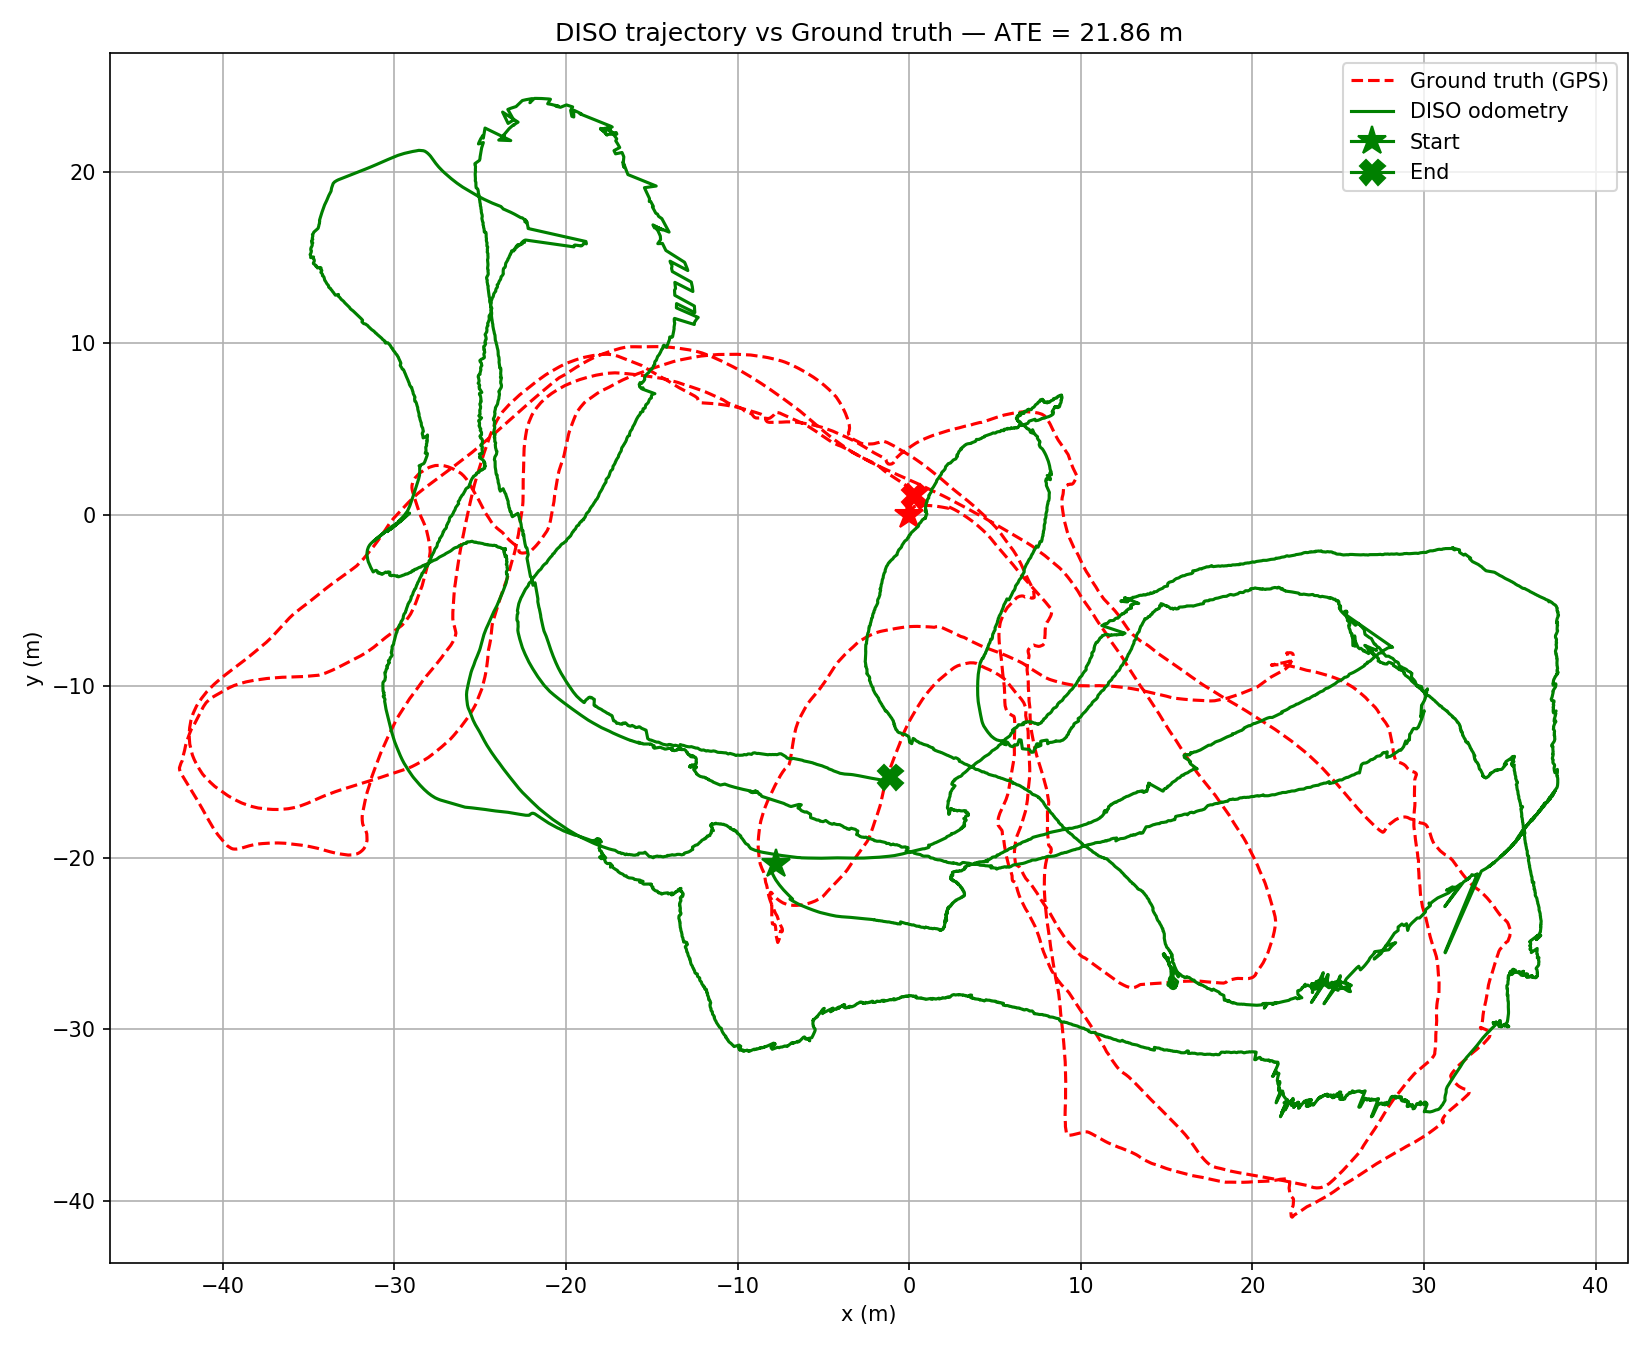
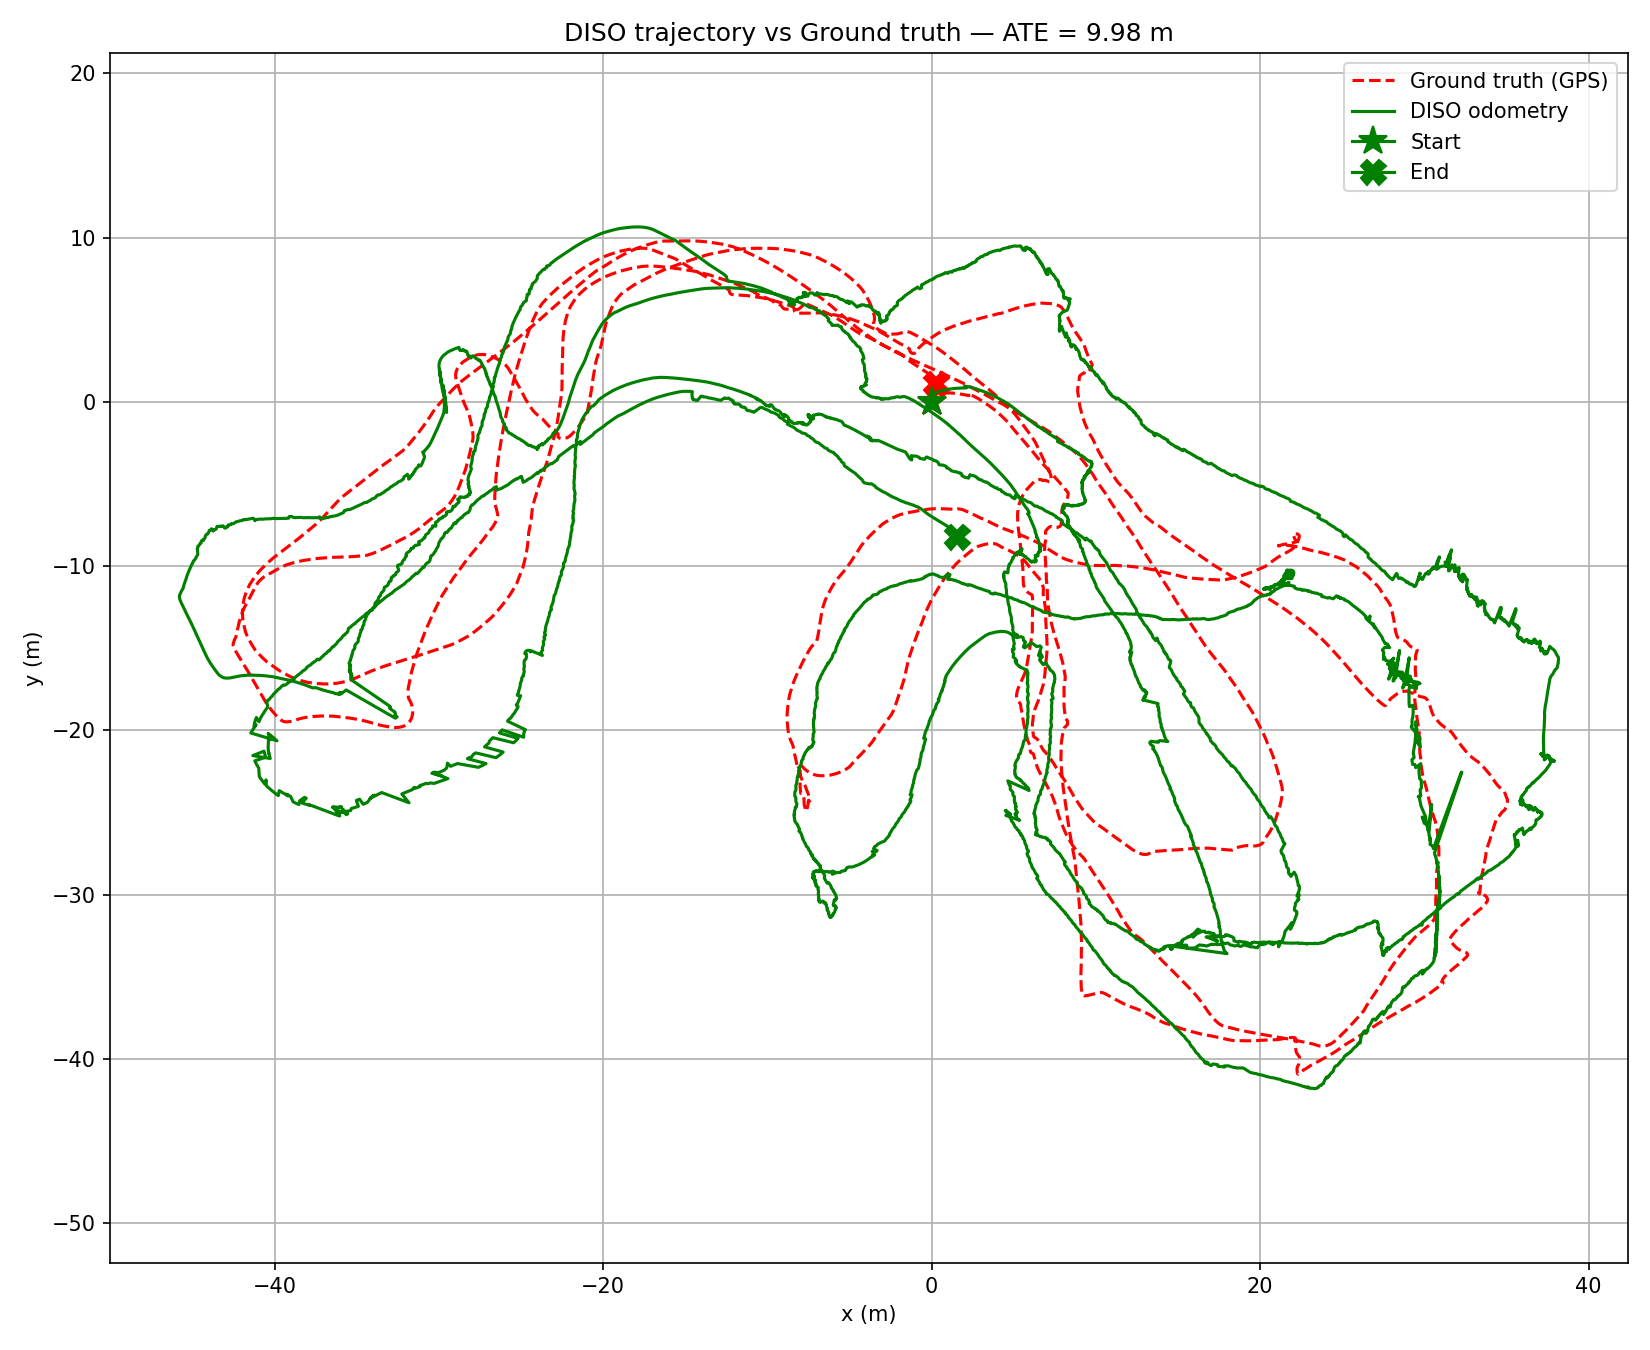
graphique cohérent + push python pour avoir le nuage de point

diff --git a/analyze_diso.py b/analyze_diso.py
@@ -1,7 +1,9 @@
 #!/usr/bin/env python3
 """
-Plot DISO trajectory vs ground truth.
-Aligns by proportional index resampling then Umeyama SE2 (no scale).
+Generate 3 plots from DISO results:
+  1. Trajectories: GT + pure odom + DISO
+  2. Point cloud map
+  3. Point cloud + trajectories overlay
 """
 import pandas as pd
 import numpy as np
@@ -11,61 +13,102 @@ import os
 results_dir = os.environ.get("SLAM_RESULTS_DIR",
     os.path.join(os.path.dirname(os.path.abspath(__file__)), "results"))
 
-traj_path = os.path.join(results_dir, "diso_trajectory.csv")
-gt_path   = os.path.join(results_dir, "groundtruth.csv")
+def load(name):
+    path = os.path.join(results_dir, name)
+    if not os.path.exists(path):
+        print(f"WARNING: {path} not found")
+        return None
+    return pd.read_csv(path)
 
-if not os.path.exists(traj_path):
-    print(f"ERROR: {traj_path} not found")
+traj  = load("diso_trajectory.csv")
+odom  = load("diso_odom.csv")
+gt    = load("groundtruth.csv")
+cloud = load("diso_pointcloud.csv")
+
+if traj is None:
+    print("ERROR: diso_trajectory.csv missing — run DISO and CTRL+C first")
     exit(1)
 
-traj = pd.read_csv(traj_path)
-gt   = pd.read_csv(gt_path)
+# ── Alignment: flip Y then rotate by centroid angle ──────────────────────────
+def align_to_gt(x, y, gx, gy):
+    """Flip Y then rotate so DISO centroid matches GT centroid direction."""
+    y = -y
+    diso_angle = np.arctan2(y.mean(), x.mean())
+    gt_angle   = np.arctan2(gy.mean(), gx.mean())
+    theta = gt_angle - diso_angle
+    c, s = np.cos(theta), np.sin(theta)
+    R = np.array([[c, -s], [s, c]])
+    aligned = (R @ np.stack([x, y])).T
+    return aligned[:, 0], aligned[:, 1], R
 
 tx, ty = traj["x"].to_numpy(), traj["y"].to_numpy()
 gx, gy = gt["x"].to_numpy(),   gt["y"].to_numpy()
 
-# Resample DISO to same number of points as GT (proportional index)
-idx = np.round(np.linspace(0, len(tx)-1, len(gx))).astype(int)
-tx_r, ty_r = tx[idx], ty[idx]
+tx_a, ty_a, R = align_to_gt(tx, ty, gx, gy)
 
-# Umeyama SE2: find R, t mapping DISO → GT (no scale)
-p = np.stack([tx_r, ty_r], axis=1)
-q = np.stack([gx,   gy  ], axis=1)
-mu_p, mu_q = p.mean(0), q.mean(0)
-H = (p - mu_p).T @ (q - mu_q)
-U, _, Vt = np.linalg.svd(H)
-R = Vt.T @ U.T
-# Force proper rotation (no reflection)
-if np.linalg.det(R) < 0:
-    Vt[1, :] *= -1
-    R = Vt.T @ U.T
-t_vec = mu_q - R @ mu_p
+# ATE
+idx = np.round(np.linspace(0, len(gx)-1, len(tx_a))).astype(int)
+ate = np.sqrt(np.mean((tx_a - gx[idx])**2 + (ty_a - gy[idx])**2))
 
-# Apply to full DISO trajectory
-aligned = (R @ np.stack([tx, ty])).T + t_vec
-tx_a, ty_a = aligned[:, 0], aligned[:, 1]
+# ── Figure 1: Trajectories ────────────────────────────────────────────────────
+fig1, ax1 = plt.subplots(figsize=(11, 9))
+ax1.plot(gx, gy, label="Ground truth (GPS)", color="red", linestyle="--", linewidth=1.5)
+ax1.plot(gx[0], gy[0], marker="*", color="red", markersize=14)
+ax1.plot(gx[-1], gy[-1], marker="X", color="red", markersize=12)
 
-# ATE on resampled points
-tx_a_r = (R @ np.stack([tx_r, ty_r])).T + t_vec
-ate = np.sqrt(np.mean((tx_a_r[:,0] - gx)**2 + (tx_a_r[:,1] - gy)**2))
+if odom is not None:
+    ox, oy = odom["x"].to_numpy(), odom["y"].to_numpy()
+    ox_a, oy_a, _ = align_to_gt(ox, oy, gx, gy)
+    ax1.plot(ox_a, oy_a, label="Pure odometry (dead reckoning)", color="steelblue",
+             linestyle=":", linewidth=1.2)
+    ax1.plot(ox_a[0], oy_a[0], marker="*", color="steelblue", markersize=12)
+    ax1.plot(ox_a[-1], oy_a[-1], marker="X", color="steelblue", markersize=10)
 
-fig, ax = plt.subplots(figsize=(11, 9))
-ax.plot(gx,   gy,   label="Ground truth (GPS)", color="red",   linestyle="--", linewidth=1.5)
-ax.plot(gx[0], gy[0], marker="*", color="red",   markersize=14)
-ax.plot(gx[-1],gy[-1],marker="X", color="red",   markersize=12)
-ax.plot(tx_a, ty_a, label="DISO odometry",      color="green", linewidth=1.5)
-ax.plot(tx_a[0],  ty_a[0],  marker="*", color="green", markersize=14, label="Start")
-ax.plot(tx_a[-1], ty_a[-1], marker="X", color="green", markersize=12, label="End")
+ax1.plot(tx_a, ty_a, label=f"DISO odometry (ATE={ate:.1f} m)", color="green", linewidth=1.5)
+ax1.plot(tx_a[0],  ty_a[0],  marker="*", color="green", markersize=14, label="Start")
+ax1.plot(tx_a[-1], ty_a[-1], marker="X", color="green", markersize=12, label="End")
 
-ax.set_title(f"DISO trajectory vs Ground truth — ATE = {ate:.2f} m")
-ax.set_xlabel("x (m)")
-ax.set_ylabel("y (m)")
-ax.legend()
-ax.axis("equal")
-ax.grid(True)
+ax1.set_title("Trajectories: DISO vs Ground truth vs Odometry")
+ax1.set_xlabel("x (m)"); ax1.set_ylabel("y (m)")
+ax1.legend(); ax1.axis("equal"); ax1.grid(True)
 plt.tight_layout()
+out1 = os.path.join(results_dir, "plot1_trajectories.png")
+fig1.savefig(out1, dpi=150)
+print(f"Saved: {out1}")
 
-out = os.path.join(results_dir, "diso_trajectory_plot.png")
-plt.savefig(out, dpi=150)
+# ── Figure 2: Point cloud ─────────────────────────────────────────────────────
+if cloud is not None:
+    cx, cy = cloud["x"].to_numpy(), cloud["y"].to_numpy()
+    # Apply same alignment (flip Y then rotate)
+    cy_f = -cy
+    aligned_c = (R @ np.stack([cx, cy_f])).T
+    cx_a, cy_a = aligned_c[:, 0], aligned_c[:, 1]
+
+    fig2, ax2 = plt.subplots(figsize=(11, 9))
+    ax2.scatter(cx_a, cy_a, s=0.5, c="green", alpha=0.4, label="Sonar landmarks")
+    ax2.set_title("DISO Point cloud map")
+    ax2.set_xlabel("x (m)"); ax2.set_ylabel("y (m)")
+    ax2.legend(); ax2.axis("equal"); ax2.grid(True)
+    plt.tight_layout()
+    out2 = os.path.join(results_dir, "plot2_pointcloud.png")
+    fig2.savefig(out2, dpi=150)
+    print(f"Saved: {out2}")
+
+    # ── Figure 3: Point cloud + trajectories ─────────────────────────────────
+    fig3, ax3 = plt.subplots(figsize=(11, 9))
+    ax3.scatter(cx_a, cy_a, s=0.5, c="lightgreen", alpha=0.3, label="Sonar landmarks")
+    ax3.plot(gx, gy, label="Ground truth", color="red", linestyle="--", linewidth=1.5)
+    if odom is not None:
+        ax3.plot(ox_a, oy_a, label="Pure odometry", color="steelblue", linestyle=":", linewidth=1.2)
+    ax3.plot(tx_a, ty_a, label=f"DISO (ATE={ate:.1f} m)", color="green", linewidth=1.5)
+    ax3.plot(tx_a[0], ty_a[0], marker="*", color="green", markersize=14, label="Start")
+    ax3.plot(tx_a[-1], ty_a[-1], marker="X", color="green", markersize=12, label="End")
+    ax3.set_title("DISO Point cloud + Trajectories")
+    ax3.set_xlabel("x (m)"); ax3.set_ylabel("y (m)")
+    ax3.legend(); ax3.axis("equal"); ax3.grid(True)
+    plt.tight_layout()
+    out3 = os.path.join(results_dir, "plot3_map_trajectories.png")
+    fig3.savefig(out3, dpi=150)
+    print(f"Saved: {out3}")
+
 plt.show()
-print(f"Saved to {out} — ATE = {ate:.2f} m")

diff --git a/DISO/scripts/bruce_save.py b/DISO/scripts/bruce_save.py
@@ -1,28 +1,48 @@
 #!/usr/bin/env python3
 """
-Save DISO trajectory and ground truth to CSV on shutdown.
+Save DISO trajectory, odometry, point cloud and ground truth to CSV on shutdown.
 Topics:
-  /direct_sonar/pose  (geometry_msgs/PoseStamped) — DISO estimated pose
-  /pose_gt            (geometry_msgs/PoseStamped) — ground truth
+  /direct_sonar/pose        (geometry_msgs/PoseStamped) — DISO estimated pose
+  /direct_sonar/odom        (geometry_msgs/PoseStamped) — pure odometry
+  /direct_sonar/point_cloud (sensor_msgs/PointCloud2)   — landmarks map
+  /pose_gt                  (geometry_msgs/PoseStamped) — ground truth
 """
 import csv
 import os
+import struct
 import rospy
 from geometry_msgs.msg import PoseStamped
+from sensor_msgs.msg import PointCloud2
 
-poses = []   # [(time, x, y, z, qx, qy, qz, qw), ...]
-gt_poses = []
+poses     = []
+odom      = []
+gt_poses  = []
+cloud_pts = []  # accumulated (x, y, z) from all point cloud messages
 
 
 def pose_cb(msg):
-    p = msg.pose.position
-    q = msg.pose.orientation
+    p, q = msg.pose.position, msg.pose.orientation
     poses.append((msg.header.stamp.to_sec(), p.x, p.y, p.z, q.x, q.y, q.z, q.w))
+
+
+def odom_cb(msg):
+    p, q = msg.pose.position, msg.pose.orientation
+    odom.append((msg.header.stamp.to_sec(), p.x, p.y, p.z, q.x, q.y, q.z, q.w))
 
 
 def gt_cb(msg):
     p = msg.pose.position
     gt_poses.append((msg.header.stamp.to_sec(), p.x, p.y))
+
+
+def cloud_cb(msg):
+    # Parse PointCloud2 (x,y,z floats, 4 bytes each)
+    point_step = msg.point_step
+    data = msg.data
+    for i in range(msg.width * msg.height):
+        offset = i * point_step
+        x, y, z = struct.unpack_from('fff', data, offset)
+        cloud_pts.append((x, y, z))
 
 
 def export():
@@ -32,24 +52,40 @@ def export():
 
     traj_path = os.path.join(output_dir, "diso_trajectory.csv")
     with open(traj_path, "w", newline="") as f:
-        writer = csv.writer(f)
-        writer.writerow(["time", "x", "y", "z", "qx", "qy", "qz", "qw"])
-        writer.writerows(poses)
-    rospy.loginfo("DISO trajectory saved to %s (%d poses)", traj_path, len(poses))
+        w = csv.writer(f)
+        w.writerow(["time", "x", "y", "z", "qx", "qy", "qz", "qw"])
+        w.writerows(poses)
+    rospy.loginfo("DISO trajectory saved: %d poses -> %s", len(poses), traj_path)
+
+    odom_path = os.path.join(output_dir, "diso_odom.csv")
+    with open(odom_path, "w", newline="") as f:
+        w = csv.writer(f)
+        w.writerow(["time", "x", "y", "z", "qx", "qy", "qz", "qw"])
+        w.writerows(odom)
+    rospy.loginfo("DISO odom saved: %d poses -> %s", len(odom), odom_path)
+
+    cloud_path = os.path.join(output_dir, "diso_pointcloud.csv")
+    with open(cloud_path, "w", newline="") as f:
+        w = csv.writer(f)
+        w.writerow(["x", "y", "z"])
+        w.writerows(cloud_pts)
+    rospy.loginfo("Point cloud saved: %d points -> %s", len(cloud_pts), cloud_path)
 
     if gt_poses:
         gt_path = os.path.join(output_dir, "groundtruth.csv")
         with open(gt_path, "w", newline="") as f:
-            writer = csv.writer(f)
-            writer.writerow(["time", "x", "y"])
-            writer.writerows(gt_poses)
-        rospy.loginfo("Ground truth saved to %s (%d poses)", gt_path, len(gt_poses))
+            w = csv.writer(f)
+            w.writerow(["time", "x", "y"])
+            w.writerows(gt_poses)
+        rospy.loginfo("Ground truth saved: %d poses -> %s", len(gt_poses), gt_path)
 
 
 def main():
     rospy.init_node("bruce_save")
-    rospy.Subscriber("/direct_sonar/pose", PoseStamped, pose_cb, queue_size=1000)
-    rospy.Subscriber("/pose_gt", PoseStamped, gt_cb, queue_size=1000)
+    rospy.Subscriber("/direct_sonar/pose",        PoseStamped, pose_cb,  queue_size=2000)
+    rospy.Subscriber("/direct_sonar/odom",        PoseStamped, odom_cb,  queue_size=2000)
+    rospy.Subscriber("/direct_sonar/point_cloud", PointCloud2, cloud_cb, queue_size=100)
+    rospy.Subscriber("/pose_gt",                  PoseStamped, gt_cb,    queue_size=2000)
     rospy.on_shutdown(export)
     rospy.loginfo("bruce_save ready — will export CSV on shutdown")
     rospy.spin()